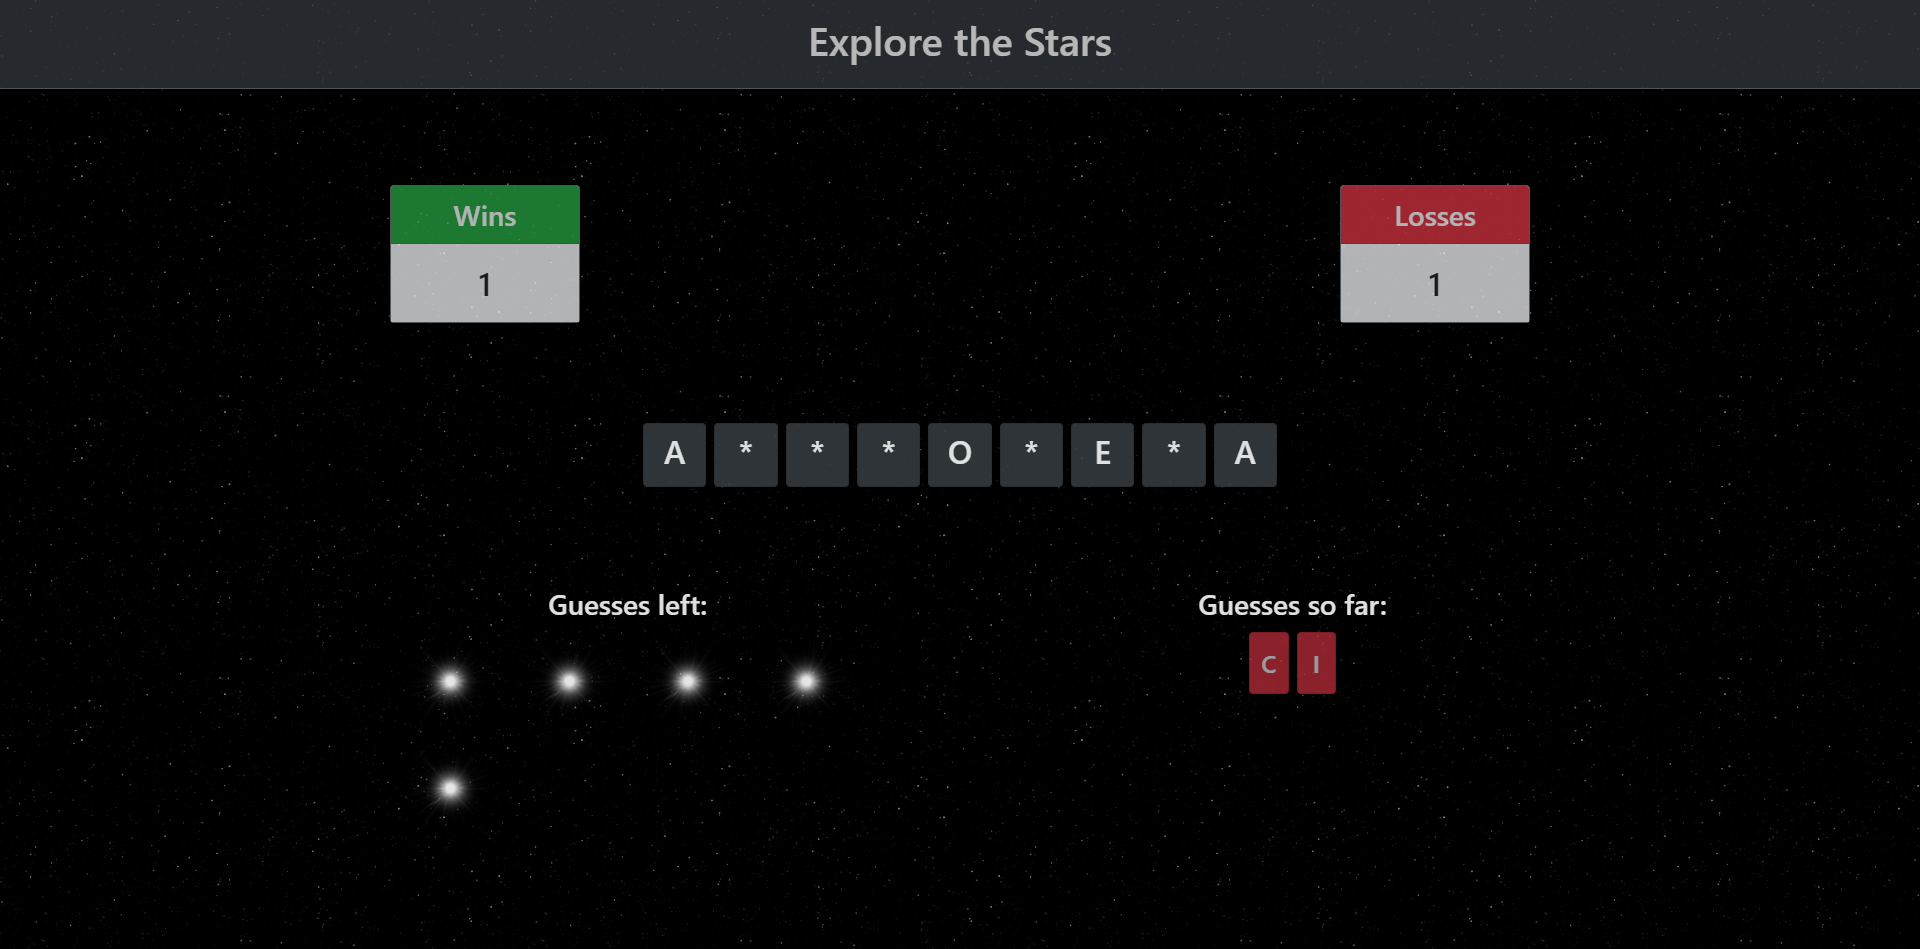
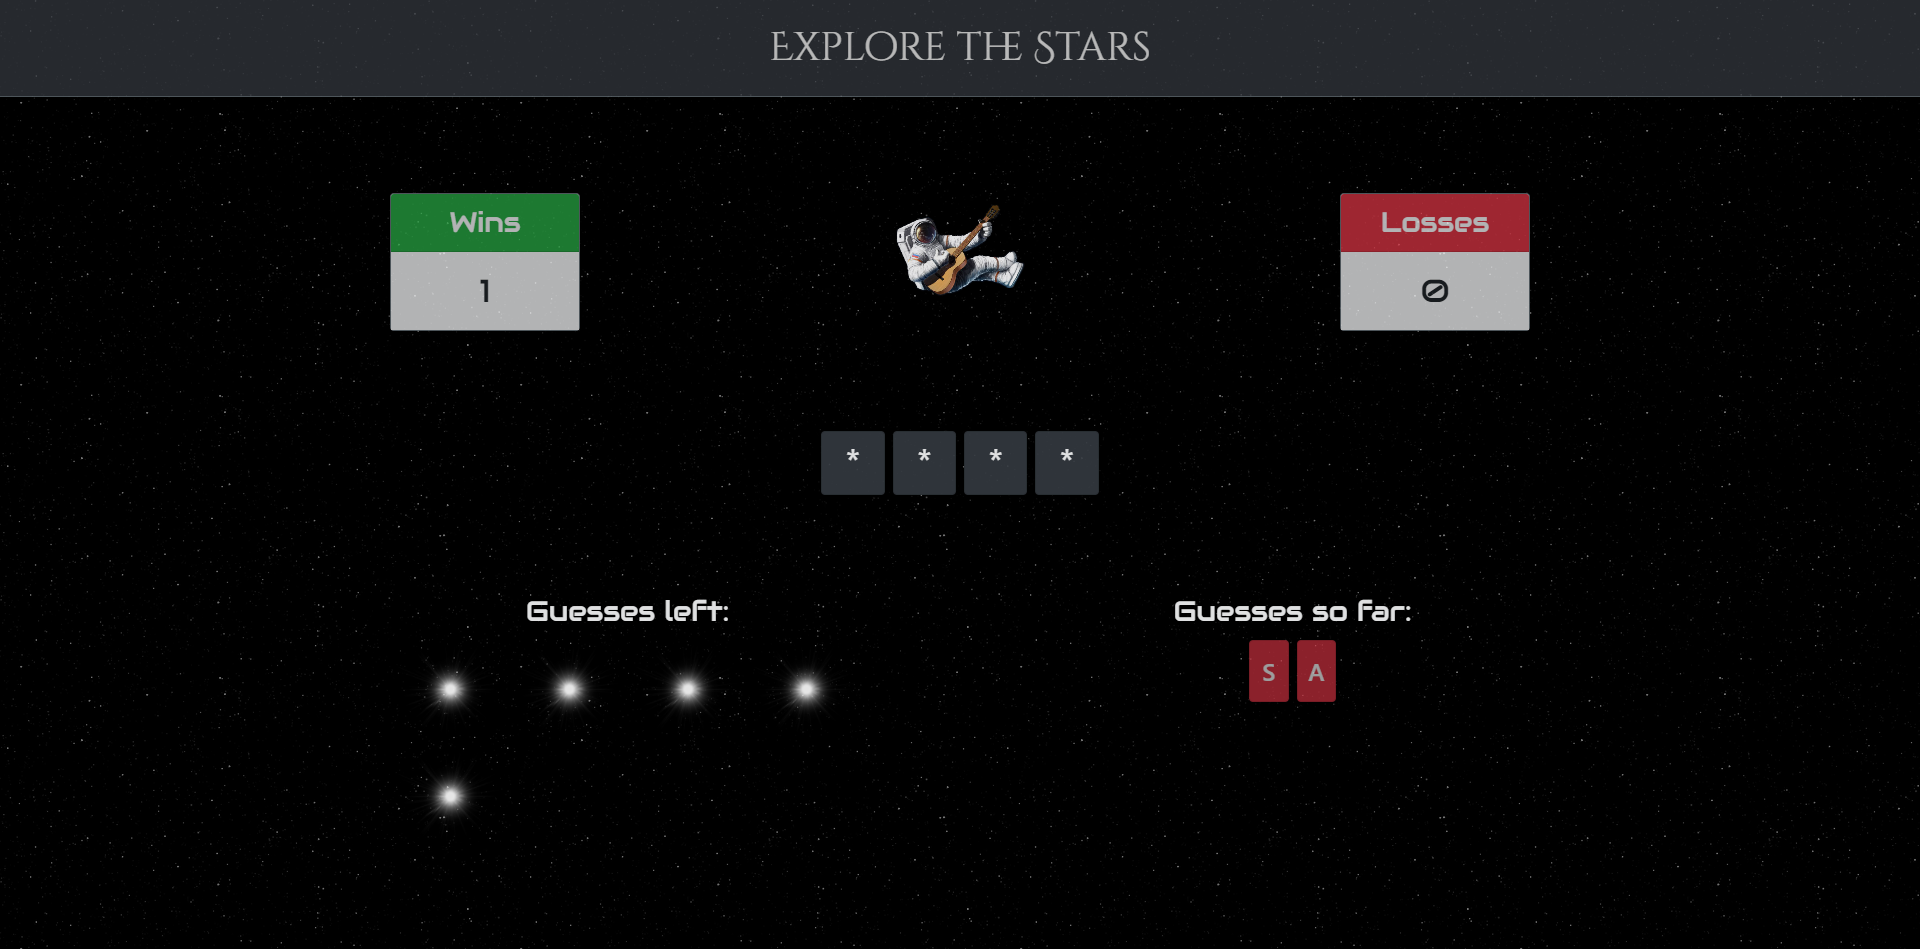
add sweet fonts

diff --git a/index.html b/index.html
@@ -13,14 +13,19 @@
   <!-- My CSS -->
   <link rel="stylesheet" href="assets/css/style.css">
 
+  <!-- Google Fonts -->
+  <link href="https://fonts.googleapis.com/css?family=Audiowide|Cinzel+Decorative" rel="stylesheet">
+
+  <!-- jQuery -->
   <script type="text/javascript" src="https://cdnjs.cloudflare.com/ajax/libs/jquery/3.2.1/jquery.min.js"></script>
 
   <title>Explore the Stars</title>
 </head>
 
 <body>
+  <!-- header -->
   <header class="bg-dark border-bottom border-secondary" id="header">
-    <h1 class="container text-center p-3 text-white mr-auto ml-auto">Explore the Stars</h1>
+    <h1 class="container text-center p-3 pt-4 text-white mr-auto ml-auto">Explore the Stars</h1>
   </header>
 
   <main class="container text-center">
@@ -54,7 +59,7 @@
         <div class="row text-center text-light">
           <div class="col-md-1"></div>
           <div class="col">
-            <h3>Guesses left:</h3>
+            <h3 class="sub-title">Guesses left:</h3>
           </div>
           <div class="col-md-1"></div>
         </div>
@@ -66,7 +71,7 @@
         <div class="row text-center text-light">
           <div class="col-md-1"></div>
           <div class="col">
-            <h3>Guesses so far:</h3>
+            <h3 class="sub-title">Guesses so far:</h3>
           </div>
           <div class="col-md-1"></div>
         </div>

diff --git a/assets/javascript/game.js b/assets/javascript/game.js
@@ -77,10 +77,8 @@ function gameReset() {
     console.log(targetWord);
     getElem("wins").textContent = wins;
     getElem("losses").textContent = losses;
-    // getElem("guesses").textContent = guessesLeft;
     displayGuessesLeft();
     displayGuessedLetters()
-    // getElem("playerChoices").textContent = "";
     displayProgress();
 }
 
@@ -202,7 +200,6 @@ $(document).ready(function() {
             guessedLetters.push(userGuess);
             guessesLeft -= 1;
             displayGuessedLetters()
-            // getElem("playerChoices").textContent = guessedLetters.join(" ");
 
             // if there are no guesses left, increment losses, reset game
             if (guessesLeft <= 0){
@@ -215,7 +212,6 @@ $(document).ready(function() {
         getElem("wins").textContent = wins;
         getElem("losses").textContent = losses;
         displayGuessesLeft();
-        // getElem("guesses").textContent = guessesLeft;
 
     }
 });

diff --git a/assets/css/style.css b/assets/css/style.css
@@ -8,6 +8,12 @@ body {
 /* reduce opacity of header to be less intrusive */
 header {
     opacity: .8;
+    font-family: 'Cinzel Decorative', cursive;
+}
+
+/* change the font of guesses left and guesses so far */
+.sub-title {
+    font-family: 'Audiowide', cursive;
 }
 
 /* add animation to wins and losses cards upon load */
@@ -15,12 +21,14 @@ header {
     animation-name: card-animation;
     animation-duration: .6s;
     opacity: .8;
+    font-family: 'Audiowide', cursive;
 }
 
 #lossesCard {
     animation-name: card-animation;
     animation-duration: .6s;
     opacity: .8;
+    font-family: 'Audiowide', cursive;
 }
 
 @keyframes card-animation {
